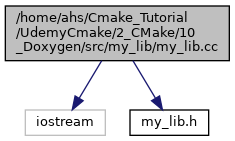
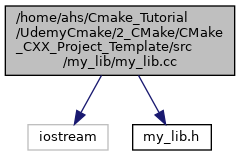
modify Docs.cmake

Changed region(s): [[0.0, 0.0284, 0.983, 0.9929]]

diff --git a/docs/html/my__lib_8h.html b/docs/html/my__lib_8h.html
@@ -5,7 +5,7 @@
 <meta http-equiv="X-UA-Compatible" content="IE=9"/>
 <meta name="generator" content="Doxygen 1.9.1"/>
 <meta name="viewport" content="width=device-width, initial-scale=1"/>
-<title>C++ Project Template: /home/ahs/Cmake_Tutorial/UdemyCmake/2_CMake/10_Doxygen/src/my_lib/my_lib.h File Reference</title>
+<title>C++ Project Template: /home/ahs/Cmake_Tutorial/UdemyCmake/2_CMake/CMake_CXX_Project_Template/src/my_lib/my_lib.h File Reference</title>
 <link href="tabs.css" rel="stylesheet" type="text/css"/>
 <script type="text/javascript" src="jquery.js"></script>
 <script type="text/javascript" src="dynsections.js"></script>
@@ -75,10 +75,10 @@ $(function() {
 <div class="textblock"><div class="dynheader">
 This graph shows which files directly or indirectly include this file:</div>
 <div class="dyncontent">
-<div class="center"><img src="my__lib_8h__dep__incl.png" border="0" usemap="#a_2home_2ahs_2Cmake__Tutorial_2UdemyCmake_22__CMake_210__Doxygen_2src_2my__lib_2my__lib_8hdep" alt=""/></div>
-<map name="a_2home_2ahs_2Cmake__Tutorial_2UdemyCmake_22__CMake_210__Doxygen_2src_2my__lib_2my__lib_8hdep" id="a_2home_2ahs_2Cmake__Tutorial_2UdemyCmake_22__CMake_210__Doxygen_2src_2my__lib_2my__lib_8hdep">
-<area shape="rect" title=" " alt="" coords="8,5,227,61"/>
-<area shape="rect" href="my__lib_8cc.html" title=" " alt="" coords="5,109,229,165"/>
+<div class="center"><img src="my__lib_8h__dep__incl.png" border="0" usemap="#a_2home_2ahs_2Cmake__Tutorial_2UdemyCmake_22__CMake_2CMake__CXX__Project__Template_2src_2my__lib_2my__lib_8hdep" alt=""/></div>
+<map name="a_2home_2ahs_2Cmake__Tutorial_2UdemyCmake_22__CMake_2CMake__CXX__Project__Template_2src_2my__lib_2my__lib_8hdep" id="a_2home_2ahs_2Cmake__Tutorial_2UdemyCmake_22__CMake_2CMake__CXX__Project__Template_2src_2my__lib_2my__lib_8hdep">
+<area shape="rect" title=" " alt="" coords="5,5,235,76"/>
+<area shape="rect" href="my__lib_8cc.html" title=" " alt="" coords="5,124,235,195"/>
 </map>
 </div>
 </div>
@@ -86,19 +86,39 @@ This graph shows which files directly or indirectly include this file:</div>
 <table class="memberdecls">
 <tr class="heading"><td colspan="2"><h2 class="groupheader"><a name="func-members"></a>
 Functions</h2></td></tr>
-<tr class="memitem:aacc1a516379b8a18d0d15e56db90dc74"><td class="memItemLeft" align="right" valign="top">void&#160;</td><td class="memItemRight" valign="bottom"><a class="el" href="my__lib_8h.html#aacc1a516379b8a18d0d15e56db90dc74">print_hello_world</a> (void)</td></tr>
-<tr class="memdesc:aacc1a516379b8a18d0d15e56db90dc74"><td class="mdescLeft">&#160;</td><td class="mdescRight">print world function  <a href="my__lib_8h.html#aacc1a516379b8a18d0d15e56db90dc74">More...</a><br /></td></tr>
-<tr class="separator:aacc1a516379b8a18d0d15e56db90dc74"><td class="memSeparator" colspan="2">&#160;</td></tr>
+<tr class="memitem:aaf095960dd62d32ec0bf862f2d5ff745"><td class="memItemLeft" align="right" valign="top">int&#160;</td><td class="memItemRight" valign="bottom"><a class="el" href="my__lib_8h.html#aaf095960dd62d32ec0bf862f2d5ff745">print_hello_world</a> (void)</td></tr>
+<tr class="memdesc:aaf095960dd62d32ec0bf862f2d5ff745"><td class="mdescLeft">&#160;</td><td class="mdescRight">print world function  <a href="my__lib_8h.html#aaf095960dd62d32ec0bf862f2d5ff745">More...</a><br /></td></tr>
+<tr class="separator:aaf095960dd62d32ec0bf862f2d5ff745"><td class="memSeparator" colspan="2">&#160;</td></tr>
+<tr class="memitem:ae9945c15826a9c1b5c141db314b7f8b4"><td class="memItemLeft" align="right" valign="top">unsigned int&#160;</td><td class="memItemRight" valign="bottom"><a class="el" href="my__lib_8h.html#ae9945c15826a9c1b5c141db314b7f8b4">factorial</a> (unsigned int n)</td></tr>
+<tr class="separator:ae9945c15826a9c1b5c141db314b7f8b4"><td class="memSeparator" colspan="2">&#160;</td></tr>
 </table>
 <h2 class="groupheader">Function Documentation</h2>
-<a id="aacc1a516379b8a18d0d15e56db90dc74"></a>
-<h2 class="memtitle"><span class="permalink"><a href="#aacc1a516379b8a18d0d15e56db90dc74">&#9670;&nbsp;</a></span>print_hello_world()</h2>
+<a id="ae9945c15826a9c1b5c141db314b7f8b4"></a>
+<h2 class="memtitle"><span class="permalink"><a href="#ae9945c15826a9c1b5c141db314b7f8b4">&#9670;&nbsp;</a></span>factorial()</h2>
 
 <div class="memitem">
 <div class="memproto">
       <table class="memname">
         <tr>
-          <td class="memname">void print_hello_world </td>
+          <td class="memname">unsigned int factorial </td>
+          <td>(</td>
+          <td class="paramtype">unsigned int&#160;</td>
+          <td class="paramname"><em>n</em></td><td>)</td>
+          <td></td>
+        </tr>
+      </table>
+</div><div class="memdoc">
+
+</div>
+</div>
+<a id="aaf095960dd62d32ec0bf862f2d5ff745"></a>
+<h2 class="memtitle"><span class="permalink"><a href="#aaf095960dd62d32ec0bf862f2d5ff745">&#9670;&nbsp;</a></span>print_hello_world()</h2>
+
+<div class="memitem">
+<div class="memproto">
+      <table class="memname">
+        <tr>
+          <td class="memname">int print_hello_world </td>
           <td>(</td>
           <td class="paramtype">void&#160;</td>
           <td class="paramname"></td><td>)</td>

diff --git a/docs/html/my__lib_8cc.html b/docs/html/my__lib_8cc.html
@@ -5,7 +5,7 @@
 <meta http-equiv="X-UA-Compatible" content="IE=9"/>
 <meta name="generator" content="Doxygen 1.9.1"/>
 <meta name="viewport" content="width=device-width, initial-scale=1"/>
-<title>C++ Project Template: /home/ahs/Cmake_Tutorial/UdemyCmake/2_CMake/10_Doxygen/src/my_lib/my_lib.cc File Reference</title>
+<title>C++ Project Template: /home/ahs/Cmake_Tutorial/UdemyCmake/2_CMake/CMake_CXX_Project_Template/src/my_lib/my_lib.cc File Reference</title>
 <link href="tabs.css" rel="stylesheet" type="text/css"/>
 <script type="text/javascript" src="jquery.js"></script>
 <script type="text/javascript" src="dynsections.js"></script>
@@ -77,29 +77,49 @@ $(function() {
 </div><div class="textblock"><div class="dynheader">
 Include dependency graph for my_lib.cc:</div>
 <div class="dyncontent">
-<div class="center"><img src="my__lib_8cc__incl.png" border="0" usemap="#a_2home_2ahs_2Cmake__Tutorial_2UdemyCmake_22__CMake_210__Doxygen_2src_2my__lib_2my__lib_8cc" alt=""/></div>
-<map name="a_2home_2ahs_2Cmake__Tutorial_2UdemyCmake_22__CMake_210__Doxygen_2src_2my__lib_2my__lib_8cc" id="a_2home_2ahs_2Cmake__Tutorial_2UdemyCmake_22__CMake_210__Doxygen_2src_2my__lib_2my__lib_8cc">
-<area shape="rect" title=" " alt="" coords="5,5,229,61"/>
-<area shape="rect" title=" " alt="" coords="25,109,105,136"/>
-<area shape="rect" href="my__lib_8h.html" title=" " alt="" coords="130,109,209,136"/>
+<div class="center"><img src="my__lib_8cc__incl.png" border="0" usemap="#a_2home_2ahs_2Cmake__Tutorial_2UdemyCmake_22__CMake_2CMake__CXX__Project__Template_2src_2my__lib_2my__lib_8cc" alt=""/></div>
+<map name="a_2home_2ahs_2Cmake__Tutorial_2UdemyCmake_22__CMake_2CMake__CXX__Project__Template_2src_2my__lib_2my__lib_8cc" id="a_2home_2ahs_2Cmake__Tutorial_2UdemyCmake_22__CMake_2CMake__CXX__Project__Template_2src_2my__lib_2my__lib_8cc">
+<area shape="rect" title=" " alt="" coords="5,5,235,76"/>
+<area shape="rect" title=" " alt="" coords="28,124,108,151"/>
+<area shape="rect" href="my__lib_8h.html" title=" " alt="" coords="133,124,211,151"/>
 </map>
 </div>
 </div><table class="memberdecls">
 <tr class="heading"><td colspan="2"><h2 class="groupheader"><a name="func-members"></a>
 Functions</h2></td></tr>
-<tr class="memitem:aacc1a516379b8a18d0d15e56db90dc74"><td class="memItemLeft" align="right" valign="top">void&#160;</td><td class="memItemRight" valign="bottom"><a class="el" href="my__lib_8cc.html#aacc1a516379b8a18d0d15e56db90dc74">print_hello_world</a> (void)</td></tr>
-<tr class="memdesc:aacc1a516379b8a18d0d15e56db90dc74"><td class="mdescLeft">&#160;</td><td class="mdescRight">print world function  <a href="my__lib_8cc.html#aacc1a516379b8a18d0d15e56db90dc74">More...</a><br /></td></tr>
-<tr class="separator:aacc1a516379b8a18d0d15e56db90dc74"><td class="memSeparator" colspan="2">&#160;</td></tr>
+<tr class="memitem:aaf095960dd62d32ec0bf862f2d5ff745"><td class="memItemLeft" align="right" valign="top">int&#160;</td><td class="memItemRight" valign="bottom"><a class="el" href="my__lib_8cc.html#aaf095960dd62d32ec0bf862f2d5ff745">print_hello_world</a> (void)</td></tr>
+<tr class="memdesc:aaf095960dd62d32ec0bf862f2d5ff745"><td class="mdescLeft">&#160;</td><td class="mdescRight">print world function  <a href="my__lib_8cc.html#aaf095960dd62d32ec0bf862f2d5ff745">More...</a><br /></td></tr>
+<tr class="separator:aaf095960dd62d32ec0bf862f2d5ff745"><td class="memSeparator" colspan="2">&#160;</td></tr>
+<tr class="memitem:ae9945c15826a9c1b5c141db314b7f8b4"><td class="memItemLeft" align="right" valign="top">unsigned int&#160;</td><td class="memItemRight" valign="bottom"><a class="el" href="my__lib_8cc.html#ae9945c15826a9c1b5c141db314b7f8b4">factorial</a> (unsigned int n)</td></tr>
+<tr class="separator:ae9945c15826a9c1b5c141db314b7f8b4"><td class="memSeparator" colspan="2">&#160;</td></tr>
 </table>
 <h2 class="groupheader">Function Documentation</h2>
-<a id="aacc1a516379b8a18d0d15e56db90dc74"></a>
-<h2 class="memtitle"><span class="permalink"><a href="#aacc1a516379b8a18d0d15e56db90dc74">&#9670;&nbsp;</a></span>print_hello_world()</h2>
+<a id="ae9945c15826a9c1b5c141db314b7f8b4"></a>
+<h2 class="memtitle"><span class="permalink"><a href="#ae9945c15826a9c1b5c141db314b7f8b4">&#9670;&nbsp;</a></span>factorial()</h2>
 
 <div class="memitem">
 <div class="memproto">
       <table class="memname">
         <tr>
-          <td class="memname">void print_hello_world </td>
+          <td class="memname">unsigned int factorial </td>
+          <td>(</td>
+          <td class="paramtype">unsigned int&#160;</td>
+          <td class="paramname"><em>n</em></td><td>)</td>
+          <td></td>
+        </tr>
+      </table>
+</div><div class="memdoc">
+
+</div>
+</div>
+<a id="aaf095960dd62d32ec0bf862f2d5ff745"></a>
+<h2 class="memtitle"><span class="permalink"><a href="#aaf095960dd62d32ec0bf862f2d5ff745">&#9670;&nbsp;</a></span>print_hello_world()</h2>
+
+<div class="memitem">
+<div class="memproto">
+      <table class="memname">
+        <tr>
+          <td class="memname">int print_hello_world </td>
           <td>(</td>
           <td class="paramtype">void&#160;</td>
           <td class="paramname"></td><td>)</td>

diff --git a/docs/html/my__lib_8h_source.html b/docs/html/my__lib_8h_source.html
@@ -5,7 +5,7 @@
 <meta http-equiv="X-UA-Compatible" content="IE=9"/>
 <meta name="generator" content="Doxygen 1.9.1"/>
 <meta name="viewport" content="width=device-width, initial-scale=1"/>
-<title>C++ Project Template: /home/ahs/Cmake_Tutorial/UdemyCmake/2_CMake/10_Doxygen/src/my_lib/my_lib.h Source File</title>
+<title>C++ Project Template: /home/ahs/Cmake_Tutorial/UdemyCmake/2_CMake/CMake_CXX_Project_Template/src/my_lib/my_lib.h Source File</title>
 <link href="tabs.css" rel="stylesheet" type="text/css"/>
 <script type="text/javascript" src="jquery.js"></script>
 <script type="text/javascript" src="dynsections.js"></script>
@@ -72,9 +72,11 @@ $(function() {
 <div class="contents">
 <a href="my__lib_8h.html">Go to the documentation of this file.</a><div class="fragment"><div class="line"><a name="l00001"></a><span class="lineno">    1</span>&#160;<span class="preprocessor">#pragma once</span></div>
 <div class="line"><a name="l00002"></a><span class="lineno">    2</span>&#160; </div>
-<div class="line"><a name="l00010"></a><span class="lineno">   10</span>&#160;<span class="keywordtype">void</span> <a class="code" href="my__lib_8h.html#aacc1a516379b8a18d0d15e56db90dc74">print_hello_world</a>(<span class="keywordtype">void</span>);</div>
+<div class="line"><a name="l00010"></a><span class="lineno">   10</span>&#160;<span class="keywordtype">int</span> <a class="code" href="my__lib_8h.html#aaf095960dd62d32ec0bf862f2d5ff745">print_hello_world</a>(<span class="keywordtype">void</span>);</div>
 <div class="line"><a name="l00011"></a><span class="lineno">   11</span>&#160; </div>
-<div class="ttc" id="amy__lib_8h_html_aacc1a516379b8a18d0d15e56db90dc74"><div class="ttname"><a href="my__lib_8h.html#aacc1a516379b8a18d0d15e56db90dc74">print_hello_world</a></div><div class="ttdeci">void print_hello_world(void)</div><div class="ttdoc">print world function</div><div class="ttdef"><b>Definition:</b> my_lib.cc:5</div></div>
+<div class="line"><a name="l00012"></a><span class="lineno">   12</span>&#160;<span class="keywordtype">unsigned</span> <span class="keywordtype">int</span> <a class="code" href="my__lib_8h.html#ae9945c15826a9c1b5c141db314b7f8b4">factorial</a>(<span class="keywordtype">unsigned</span> <span class="keywordtype">int</span> n);</div>
+<div class="ttc" id="amy__lib_8h_html_aaf095960dd62d32ec0bf862f2d5ff745"><div class="ttname"><a href="my__lib_8h.html#aaf095960dd62d32ec0bf862f2d5ff745">print_hello_world</a></div><div class="ttdeci">int print_hello_world(void)</div><div class="ttdoc">print world function</div><div class="ttdef"><b>Definition:</b> my_lib.cc:5</div></div>
+<div class="ttc" id="amy__lib_8h_html_ae9945c15826a9c1b5c141db314b7f8b4"><div class="ttname"><a href="my__lib_8h.html#ae9945c15826a9c1b5c141db314b7f8b4">factorial</a></div><div class="ttdeci">unsigned int factorial(unsigned int n)</div><div class="ttdef"><b>Definition:</b> my_lib.cc:12</div></div>
 </div><!-- fragment --></div><!-- contents -->
 <!-- start footer part -->
 <hr class="footer"/><address class="footer"><small>

diff --git a/docs/html/my__lib_2CMakeLists_8txt.html b/docs/html/my__lib_2CMakeLists_8txt.html
@@ -5,7 +5,7 @@
 <meta http-equiv="X-UA-Compatible" content="IE=9"/>
 <meta name="generator" content="Doxygen 1.9.1"/>
 <meta name="viewport" content="width=device-width, initial-scale=1"/>
-<title>C++ Project Template: /home/ahs/Cmake_Tutorial/UdemyCmake/2_CMake/10_Doxygen/src/my_lib/CMakeLists.txt File Reference</title>
+<title>C++ Project Template: /home/ahs/Cmake_Tutorial/UdemyCmake/2_CMake/CMake_CXX_Project_Template/src/my_lib/CMakeLists.txt File Reference</title>
 <link href="tabs.css" rel="stylesheet" type="text/css"/>
 <script type="text/javascript" src="jquery.js"></script>
 <script type="text/javascript" src="dynsections.js"></script>
@@ -65,7 +65,7 @@ $(function() {
   <div class="summary">
 <a href="#func-members">Functions</a>  </div>
   <div class="headertitle">
-<div class="title">/home/ahs/Cmake_Tutorial/UdemyCmake/2_CMake/10_Doxygen/src/my_lib/CMakeLists.txt File Reference</div>  </div>
+<div class="title">/home/ahs/Cmake_Tutorial/UdemyCmake/2_CMake/CMake_CXX_Project_Template/src/my_lib/CMakeLists.txt File Reference</div>  </div>
 </div><!--header-->
 <div class="contents">
 <table class="memberdecls">

diff --git a/docs/html/CMakeLists_8txt.html b/docs/html/CMakeLists_8txt.html
@@ -5,7 +5,7 @@
 <meta http-equiv="X-UA-Compatible" content="IE=9"/>
 <meta name="generator" content="Doxygen 1.9.1"/>
 <meta name="viewport" content="width=device-width, initial-scale=1"/>
-<title>C++ Project Template: /home/ahs/Cmake_Tutorial/UdemyCmake/2_CMake/10_Doxygen/src/CMakeLists.txt File Reference</title>
+<title>C++ Project Template: /home/ahs/Cmake_Tutorial/UdemyCmake/2_CMake/CMake_CXX_Project_Template/src/CMakeLists.txt File Reference</title>
 <link href="tabs.css" rel="stylesheet" type="text/css"/>
 <script type="text/javascript" src="jquery.js"></script>
 <script type="text/javascript" src="dynsections.js"></script>
@@ -63,7 +63,7 @@ $(function() {
 </div><!-- top -->
 <div class="header">
   <div class="headertitle">
-<div class="title">/home/ahs/Cmake_Tutorial/UdemyCmake/2_CMake/10_Doxygen/src/CMakeLists.txt File Reference</div>  </div>
+<div class="title">/home/ahs/Cmake_Tutorial/UdemyCmake/2_CMake/CMake_CXX_Project_Template/src/CMakeLists.txt File Reference</div>  </div>
 </div><!--header-->
 <div class="contents">
 </div><!-- contents -->

diff --git a/docs/html/globals.html b/docs/html/globals.html
@@ -66,9 +66,13 @@ $(function() {
 <li>add_library()
 : <a class="el" href="my__lib_2CMakeLists_8txt.html#a1aa8a127b86ad0c1b326089e69186a8b">CMakeLists.txt</a>
 </li>
+<li>factorial()
+: <a class="el" href="my__lib_8cc.html#ae9945c15826a9c1b5c141db314b7f8b4">my_lib.cc</a>
+, <a class="el" href="my__lib_8h.html#ae9945c15826a9c1b5c141db314b7f8b4">my_lib.h</a>
+</li>
 <li>print_hello_world()
-: <a class="el" href="my__lib_8cc.html#aacc1a516379b8a18d0d15e56db90dc74">my_lib.cc</a>
-, <a class="el" href="my__lib_8h.html#aacc1a516379b8a18d0d15e56db90dc74">my_lib.h</a>
+: <a class="el" href="my__lib_8cc.html#aaf095960dd62d32ec0bf862f2d5ff745">my_lib.cc</a>
+, <a class="el" href="my__lib_8h.html#aaf095960dd62d32ec0bf862f2d5ff745">my_lib.h</a>
 </li>
 </ul>
 </div><!-- contents -->

diff --git a/docs/html/globals_func.html b/docs/html/globals_func.html
@@ -66,9 +66,13 @@ $(function() {
 <li>add_library()
 : <a class="el" href="my__lib_2CMakeLists_8txt.html#a1aa8a127b86ad0c1b326089e69186a8b">CMakeLists.txt</a>
 </li>
+<li>factorial()
+: <a class="el" href="my__lib_8cc.html#ae9945c15826a9c1b5c141db314b7f8b4">my_lib.cc</a>
+, <a class="el" href="my__lib_8h.html#ae9945c15826a9c1b5c141db314b7f8b4">my_lib.h</a>
+</li>
 <li>print_hello_world()
-: <a class="el" href="my__lib_8cc.html#aacc1a516379b8a18d0d15e56db90dc74">my_lib.cc</a>
-, <a class="el" href="my__lib_8h.html#aacc1a516379b8a18d0d15e56db90dc74">my_lib.h</a>
+: <a class="el" href="my__lib_8cc.html#aaf095960dd62d32ec0bf862f2d5ff745">my_lib.cc</a>
+, <a class="el" href="my__lib_8h.html#aaf095960dd62d32ec0bf862f2d5ff745">my_lib.h</a>
 </li>
 </ul>
 </div><!-- contents -->

diff --git a/docs/html/dir_08ebf401352d0c333d3a643fc2ed36cf.html b/docs/html/dir_08ebf401352d0c333d3a643fc2ed36cf.html
@@ -5,7 +5,7 @@
 <meta http-equiv="X-UA-Compatible" content="IE=9"/>
 <meta name="generator" content="Doxygen 1.9.1"/>
 <meta name="viewport" content="width=device-width, initial-scale=1"/>
-<title>C++ Project Template: /home/ahs/Cmake_Tutorial/UdemyCmake/2_CMake/10_Doxygen/src/my_lib Directory Reference</title>
+<title>C++ Project Template: /home/ahs/Cmake_Tutorial/UdemyCmake/2_CMake/CMake_CXX_Project_Template/src/my_lib Directory Reference</title>
 <link href="tabs.css" rel="stylesheet" type="text/css"/>
 <script type="text/javascript" src="jquery.js"></script>
 <script type="text/javascript" src="dynsections.js"></script>

diff --git a/docs/html/dir_68267d1309a1af8e8297ef4c3efbcdba.html b/docs/html/dir_68267d1309a1af8e8297ef4c3efbcdba.html
@@ -5,7 +5,7 @@
 <meta http-equiv="X-UA-Compatible" content="IE=9"/>
 <meta name="generator" content="Doxygen 1.9.1"/>
 <meta name="viewport" content="width=device-width, initial-scale=1"/>
-<title>C++ Project Template: /home/ahs/Cmake_Tutorial/UdemyCmake/2_CMake/10_Doxygen/src Directory Reference</title>
+<title>C++ Project Template: /home/ahs/Cmake_Tutorial/UdemyCmake/2_CMake/CMake_CXX_Project_Template/src Directory Reference</title>
 <link href="tabs.css" rel="stylesheet" type="text/css"/>
 <script type="text/javascript" src="jquery.js"></script>
 <script type="text/javascript" src="dynsections.js"></script>

diff --git a/docs/html/search/functions_1.js b/docs/html/search/functions_1.js
@@ -1,4 +1,4 @@
 var searchData=
 [
-  ['print_5fhello_5fworld_9',['print_hello_world',['../my__lib_8cc.html#aacc1a516379b8a18d0d15e56db90dc74',1,'print_hello_world(void):&#160;my_lib.cc'],['../my__lib_8h.html#aacc1a516379b8a18d0d15e56db90dc74',1,'print_hello_world(void):&#160;my_lib.cc']]]
+  ['factorial_10',['factorial',['../my__lib_8cc.html#ae9945c15826a9c1b5c141db314b7f8b4',1,'factorial(unsigned int n):&#160;my_lib.cc'],['../my__lib_8h.html#ae9945c15826a9c1b5c141db314b7f8b4',1,'factorial(unsigned int n):&#160;my_lib.cc']]]
 ];

diff --git a/docs/html/search/all_3.js b/docs/html/search/all_3.js
@@ -1,4 +1,5 @@
 var searchData=
 [
-  ['print_5fhello_5fworld_4',['print_hello_world',['../my__lib_8cc.html#aacc1a516379b8a18d0d15e56db90dc74',1,'print_hello_world(void):&#160;my_lib.cc'],['../my__lib_8h.html#aacc1a516379b8a18d0d15e56db90dc74',1,'print_hello_world(void):&#160;my_lib.cc']]]
+  ['my_5flib_2ecc_3',['my_lib.cc',['../my__lib_8cc.html',1,'']]],
+  ['my_5flib_2eh_4',['my_lib.h',['../my__lib_8h.html',1,'']]]
 ];

diff --git a/docs/html/search/all_2.js b/docs/html/search/all_2.js
@@ -1,5 +1,4 @@
 var searchData=
 [
-  ['my_5flib_2ecc_2',['my_lib.cc',['../my__lib_8cc.html',1,'']]],
-  ['my_5flib_2eh_3',['my_lib.h',['../my__lib_8h.html',1,'']]]
+  ['factorial_2',['factorial',['../my__lib_8cc.html#ae9945c15826a9c1b5c141db314b7f8b4',1,'factorial(unsigned int n):&#160;my_lib.cc'],['../my__lib_8h.html#ae9945c15826a9c1b5c141db314b7f8b4',1,'factorial(unsigned int n):&#160;my_lib.cc']]]
 ];
